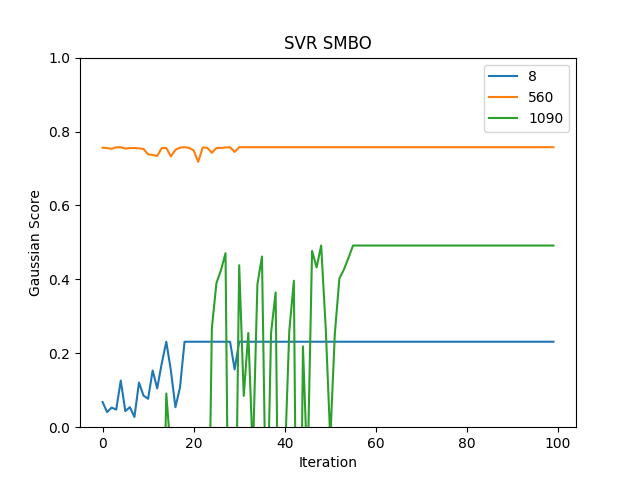
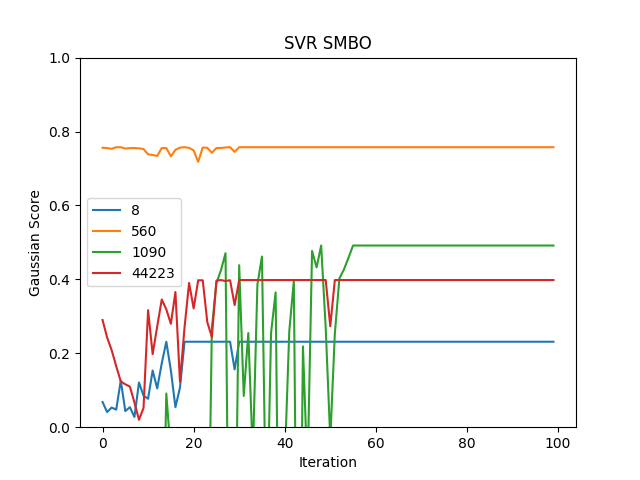
+1 regression dataset

diff --git a/part2.py b/part2.py
@@ -285,8 +285,9 @@ param_grid_MLP = {
 }
 
 classification_datasets = [1464, 1491, 1494, 1504, 1063]
-regression_datasets = [8, 560, 1090]
+regression_datasets = [8, 560, 1090, 44223]
 
+"""
 # SVC - 1464, 1491, 1494, 1504, 1063
 results_svc = make_comparisons(
     param_rand_svc, param_grid_svc, 'SVC', classification_datasets)
@@ -294,6 +295,11 @@ results_svc = make_comparisons(
 plot_gaussian_scores(results_svc, "SVC", save=True, filename="gaussian_scores_svc")
 # Save to CSV
 save_results_df(results_svc, "results_svc")
+"""
+
+
+
+
 
 # SVR 8, 560, 1090
 results_svr = make_comparisons(
@@ -304,6 +310,8 @@ plot_gaussian_scores(results_svr, "SVR", save=True,
 # Save to CSV
 save_results_df(results_svr, "results_svr")
 
+
+"""
 # MLP
 results_mlpc = make_comparisons(
     param_rand_MLP, param_grid_MLP, 'MLPC', classification_datasets)
@@ -311,3 +319,4 @@ results_mlpc = make_comparisons(
 plot_gaussian_scores(results_mlpc, "MLPC", save=True, filename="gaussian_scores_mlpc")
 # Save to CSV
 save_results_df(results_mlpc, "results_mlpc")
+"""
